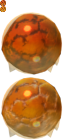
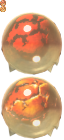
Glue rework
the glue material for this is not in the mod, it has to be in a scenario. the official pack in my own files has it now and the material will be part of the full release

diff --git a/Clonkworks.c4d/Environment.c4d/RULES.c4d/GlueSink.c4d/Script.c b/Clonkworks.c4d/Environment.c4d/RULES.c4d/GlueSink.c4d/Script.c
@@ -1,0 +1,30 @@
+#strict 2
+
+protected func Initialize()
+{
+  SetPosition(0,0);
+  return(1);
+}
+  
+protected func CheckGlued(){
+  //living things sink
+  for(var i in FindObjects(Find_OCF(OCF_InLiquid),Find_OCF(OCF_Alive),Find_NoContainer())){
+    if(i->GetMaterial() == Material("Glue") && !GetEffect("GlueSink",i)) AddEffect("GlueSink",i,109,4,this);
+  }
+
+  for(var i in FindObjects(Find_Func("TransformInGlue"))){
+    if(i->GetMaterial() == Material("Glue")){
+        ChangeDef(i->~InGlueDef(),i);
+        i->ExtractMaterialAmount(0,0,Material("Glue"),15);
+      }
+  }
+}
+
+public func FxGlueSinkTimer(Target,EffectNum,Time){
+  if(GetProcedure(Target) != "FLIGHT")
+    if(Target->GetMaterial() != Material("Glue")) return(-1);
+  if(InLiquid(Target)){
+    var sinkAm = Time/38;
+    SetYDir(GetYDir(Target)+sinkAm,Target);
+  }
+}

diff --git a/Clonkworks.c4d/Items.c4d/Materials.c4d/GlueBarrel.c4d/Script.c b/Clonkworks.c4d/Items.c4d/Materials.c4d/GlueBarrel.c4d/Script.c
@@ -1,0 +1,20 @@
+/*-- Säurefass --*/
+
+#strict
+
+#include BARL
+
+// Fassdaten
+public func BarrelMaterial() { return(Material("Glue")); }
+public func BarrelMaterialName() { return("Glue"); }
+
+// Fassermittlungskette
+global func GetBarrelType(iMaterial)
+{
+  if (iMaterial == Material("Glue")) return(GLUE);
+  return(_inherited(iMaterial));
+}
+
+func IsChemicalProduct(){
+  return(1);
+}

diff --git a/Clonkworks.c4d/System.c4g/GlueTransformTFLINT.c b/Clonkworks.c4d/System.c4g/GlueTransformTFLINT.c
@@ -1,0 +1,14 @@
+/*-- Neues Script --*/
+
+#strict 2
+#appendto TFLN
+#appendto STFN
+
+public func TransformInGlue(){
+  if(GetID() == TFLN) return(1);
+  if(GetID() == STFN) return(1);
+}
+public func InGlueDef(){
+  if(GetID() == TFLN) return(TFLS);
+  if(GetID() == STFN) return(STFS);
+}
